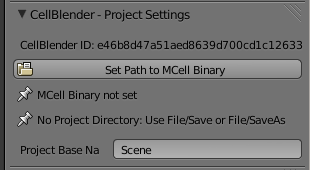
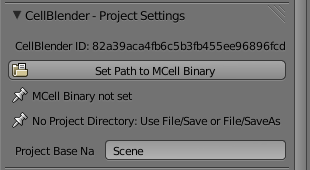
Updated tutorials to CellBlender 1.0 RC
This was mainly a matter of updating the "Note" message at the top of
every tutorial, which indicates the version of CellBlender and Blender
that were used to generate the tutorials.

The project setting images were updated, so that the SHA ID would be
the same as appears in 1.0 RC.

The default region name was also updated in one section to be compatible
with 1.0 RC.

The order of "Visualize and Plot" and "Examine the MDLs" were flipped.
Originally, changes needed to be made to the MDLs prior to
visualization, but now all those changes can be made within CellBlender,
so it seems less imperative to have users examine them immediately.

Changed region(s): [[0.0, 0.0, 1.0, 1.0]]

diff --git a/clamp.rst b/clamp.rst
@@ -7,12 +7,12 @@
 Clamp Concentration
 *********************************************
 
-.. CellBlender Source ID = 55f468aa7b71e044b3b199786f5af1d83bb3cab8
-   Git Repo SHA1 ID: 76c4b2c18c851facefad7398f3f9c86a0abb8cdc
+.. Git Repo SHA1 ID: a1abdd291b75176d6581df41329781ae5d5e1b7d
 
 .. note::
+
     The simulations and visualizations in this tutorial were generated using
-    Blender 2.67 and CellBlender 0.1.57. It may or may not work with other
+    Blender 2.67 and CellBlender 1.0 RC. It may or may not work with other
     versions.
 
 Clamp concentration lets you maintain a constant concentration of a molecule at
@@ -65,7 +65,7 @@ right side panel).
 
 Expand the **Define Surface Regions** panel. Hit the **+** button and **New
 Region** should appear in the list of regions. Change the text field which
-reads **New Region** to **clamp_sr**. 
+reads **Region_0** to **clamp_sr**. 
 
 .. image:: ./images/clamp_sr.png
 

diff --git a/examine_mdls.rst b/examine_mdls.rst
@@ -4,12 +4,18 @@
 Examining the MDLs
 *********************************************
 
-.. CellBlender Source ID = 55f468aa7b71e044b3b199786f5af1d83bb3cab8
-   Git Repo SHA1 ID: 76c4b2c18c851facefad7398f3f9c86a0abb8cdc
+In this tutorial, we will examine the MDL (Model Description Language) files
+that CellBlender generates in :ref:`getting_started`. These MDLs are what MCell
+actually parses. It is possible to use CellBlender without ever having to edit
+or even look at an MDL. However, this section may be useful if you ever decide
+to hand-edit your MDL files for any reason.
+
+.. Git Repo SHA1 ID: a1abdd291b75176d6581df41329781ae5d5e1b7d
 
 .. note::
+
     The simulations and visualizations in this tutorial were generated using
-    Blender 2.67 and CellBlender 0.1.57. It may or may not work with other
+    Blender 2.67 and CellBlender 1.0 RC. It may or may not work with other
     versions.
 
 .. contents:: :local:

diff --git a/surf_class_surf_mol.rst b/surf_class_surf_mol.rst
@@ -4,12 +4,12 @@
 Surface Classes and Surface Molecules
 *********************************************
 
-.. CellBlender Source ID = 55f468aa7b71e044b3b199786f5af1d83bb3cab8
-   Git Repo SHA1 ID: 76c4b2c18c851facefad7398f3f9c86a0abb8cdc
+.. Git Repo SHA1 ID: a1abdd291b75176d6581df41329781ae5d5e1b7d
 
 .. note::
+
     The simulations and visualizations in this tutorial were generated using
-    Blender 2.67 and CellBlender 0.1.57. It may or may not work with other
+    Blender 2.67 and CellBlender 1.0 RC. It may or may not work with other
     versions.
 
 We have already discussed surface classes at length, but we haven't touched on

diff --git a/visualize_plot.rst b/visualize_plot.rst
@@ -4,12 +4,12 @@
 Visualize and Plot the Output
 *********************************************
 
-.. CellBlender Source ID = 55f468aa7b71e044b3b199786f5af1d83bb3cab8
-   Git Repo SHA1 ID: 76c4b2c18c851facefad7398f3f9c86a0abb8cdc
+.. Git Repo SHA1 ID: a1abdd291b75176d6581df41329781ae5d5e1b7d
 
 .. note::
+
     The simulations and visualizations in this tutorial were generated using
-    Blender 2.67 and CellBlender 0.1.57. It may or may not work with other
+    Blender 2.67 and CellBlender 1.0 RC. It may or may not work with other
     versions.
 
 At the end of the last section, we ran MCell with the MDL file that we annotated. This

diff --git a/surface_classes.rst b/surface_classes.rst
@@ -4,12 +4,12 @@
 Introduction to Surface Classes
 *********************************************
 
-.. CellBlender Source ID = 55f468aa7b71e044b3b199786f5af1d83bb3cab8
-   Git Repo SHA1 ID: 76c4b2c18c851facefad7398f3f9c86a0abb8cdc
+.. Git Repo SHA1 ID: a1abdd291b75176d6581df41329781ae5d5e1b7d
 
 .. note::
+
     The simulations and visualizations in this tutorial were generated using
-    Blender 2.67 and CellBlender 0.1.57. It may or may not work with other
+    Blender 2.67 and CellBlender 1.0 RC. It may or may not work with other
     versions.
 
 Surface classes allow various properties (e.g. **ABSORPTIVE**, **TRANSPARENT**)

diff --git a/variable_rxn_rates.rst b/variable_rxn_rates.rst
@@ -4,12 +4,12 @@
 Variable Reaction Rates
 *********************************************
 
-.. CellBlender Source ID = 55f468aa7b71e044b3b199786f5af1d83bb3cab8
-   Git Repo SHA1 ID: 76c4b2c18c851facefad7398f3f9c86a0abb8cdc
+.. Git Repo SHA1 ID: a1abdd291b75176d6581df41329781ae5d5e1b7d
 
 .. note::
+
     The simulations and visualizations in this tutorial were generated using
-    Blender 2.67 and CellBlender 0.1.57. It may or may not work with other
+    Blender 2.67 and CellBlender 1.0 RC. It may or may not work with other
     versions.
 
 Eventually, it will be possible to set up variable reaction rates directly

diff --git a/checkpointing.rst b/checkpointing.rst
@@ -4,12 +4,12 @@
 Checkpointing Overview
 *********************************************
 
-.. CellBlender Source ID = 55f468aa7b71e044b3b199786f5af1d83bb3cab8
-   Git Repo SHA1 ID: 76c4b2c18c851facefad7398f3f9c86a0abb8cdc
+.. Git Repo SHA1 ID: a1abdd291b75176d6581df41329781ae5d5e1b7d
 
 .. note::
+
     The simulations and visualizations in this tutorial were generated using
-    Blender 2.67 and CellBlender 0.1.57. It may or may not work with other
+    Blender 2.67 and CellBlender 1.0 RC. It may or may not work with other
     versions.
 
 Checkpointing allows you to stop a simulation at a specified iteration and

diff --git a/rel_pattern.rst b/rel_pattern.rst
@@ -4,12 +4,12 @@
 Release Patterns
 *********************************************
 
-.. CellBlender Source ID = 55f468aa7b71e044b3b199786f5af1d83bb3cab8
-   Git Repo SHA1 ID: 76c4b2c18c851facefad7398f3f9c86a0abb8cdc
+.. Git Repo SHA1 ID: a1abdd291b75176d6581df41329781ae5d5e1b7d
 
 .. note::
+
     The simulations and visualizations in this tutorial were generated using
-    Blender 2.67 and CellBlender 0.1.57. It may or may not work with other
+    Blender 2.67 and CellBlender 1.0 RC. It may or may not work with other
     versions.
 
 Release patterns allow you to release molecules at specified time intervals.

diff --git a/index.rst b/index.rst
@@ -40,8 +40,8 @@ guide (pdf_, html_).
 
    software
    getting_started
-   examine_mdls
    visualize_plot
+   examine_mdls
    surface_classes
    variable_rxn_rates
    surf_class_surf_mol
